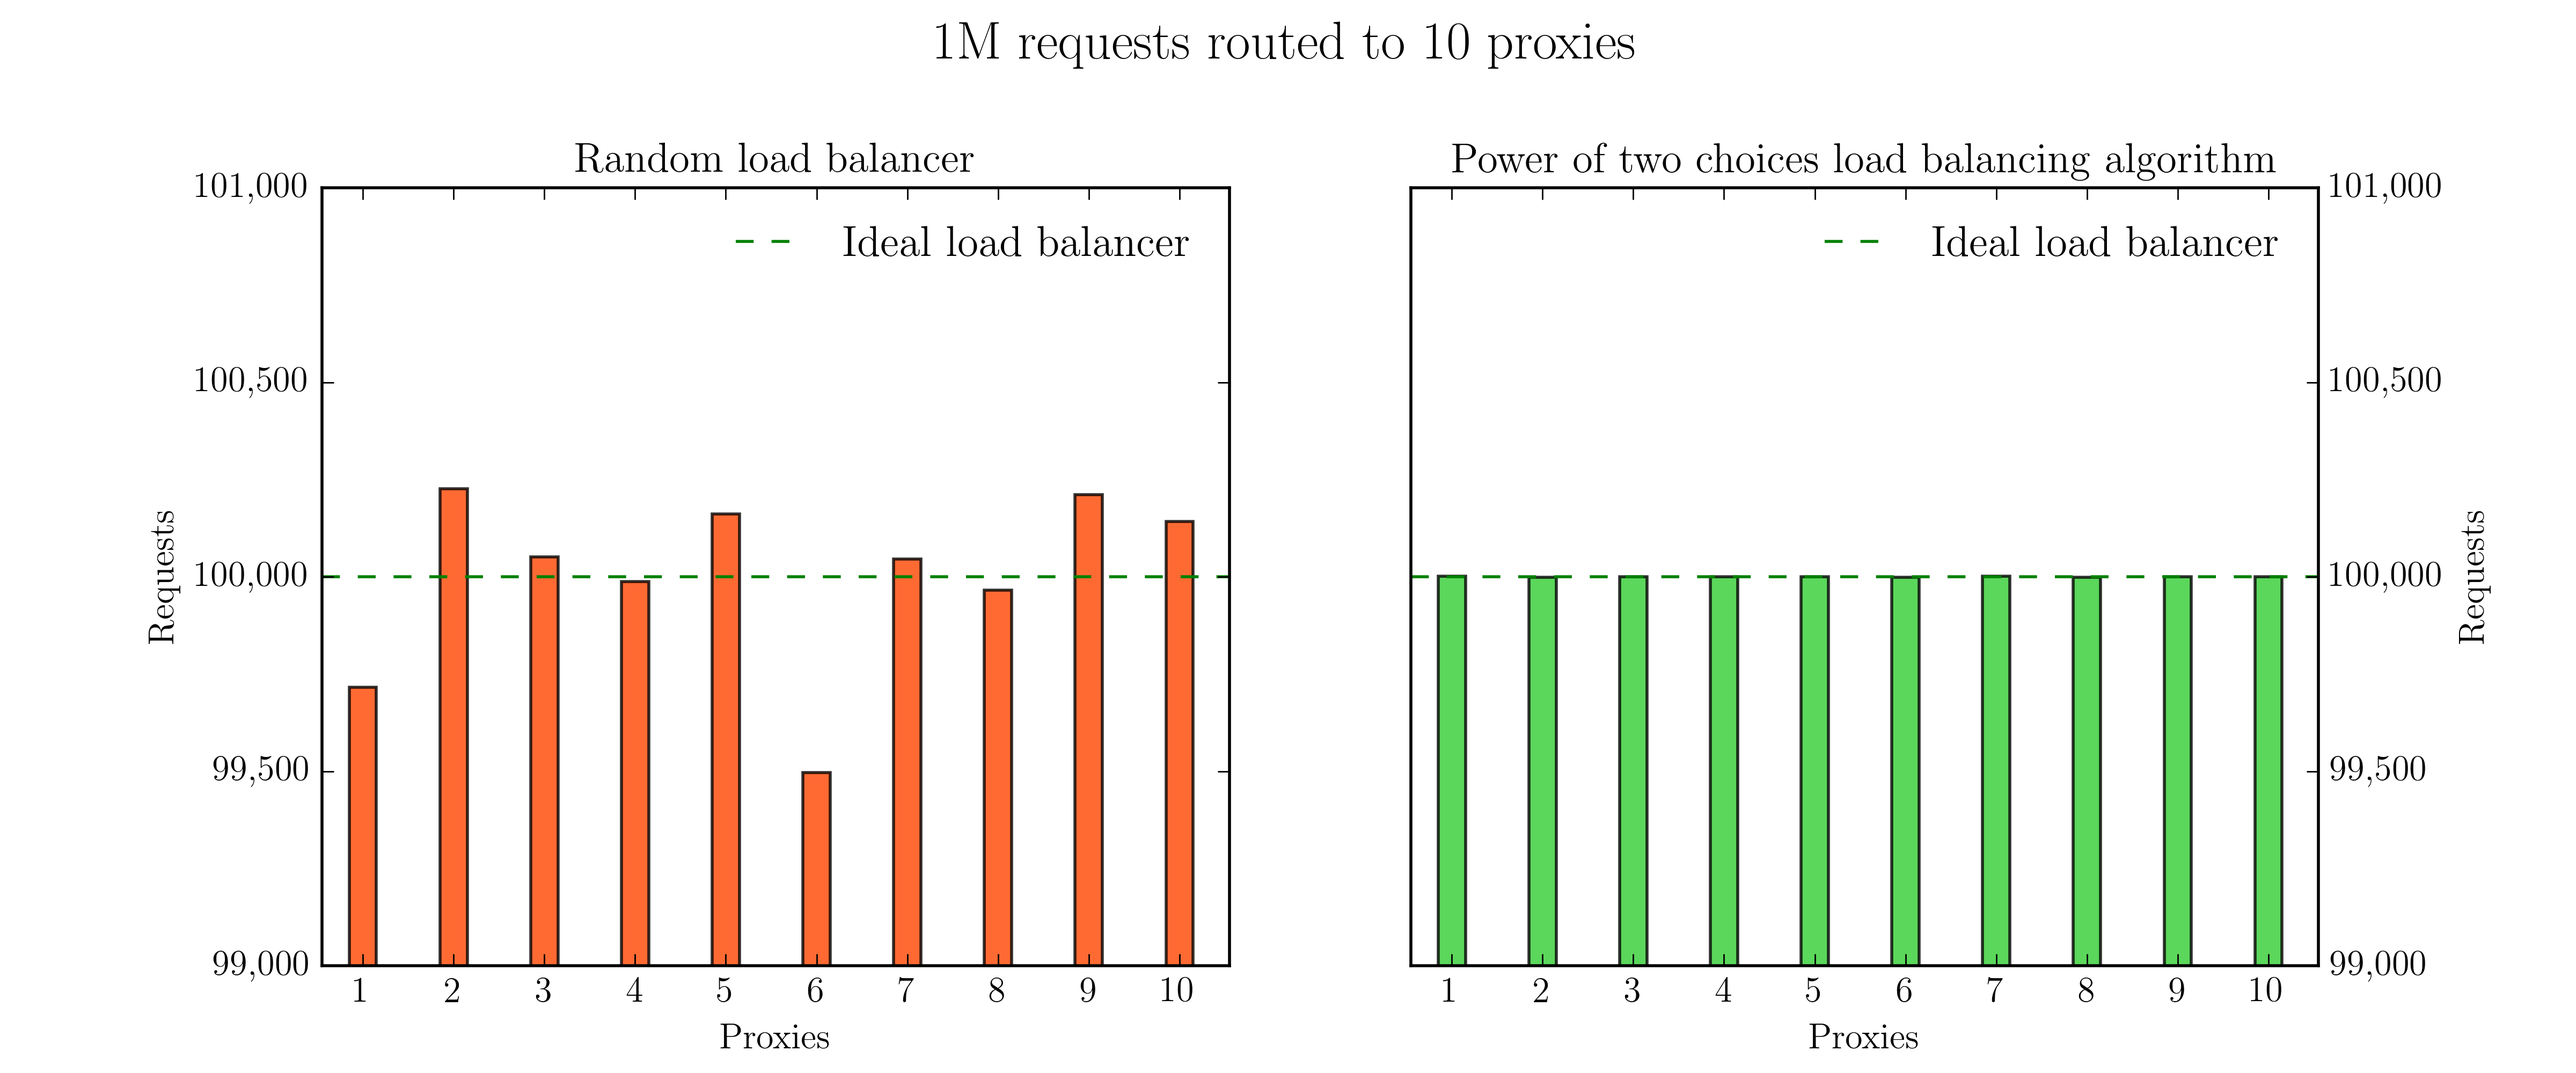
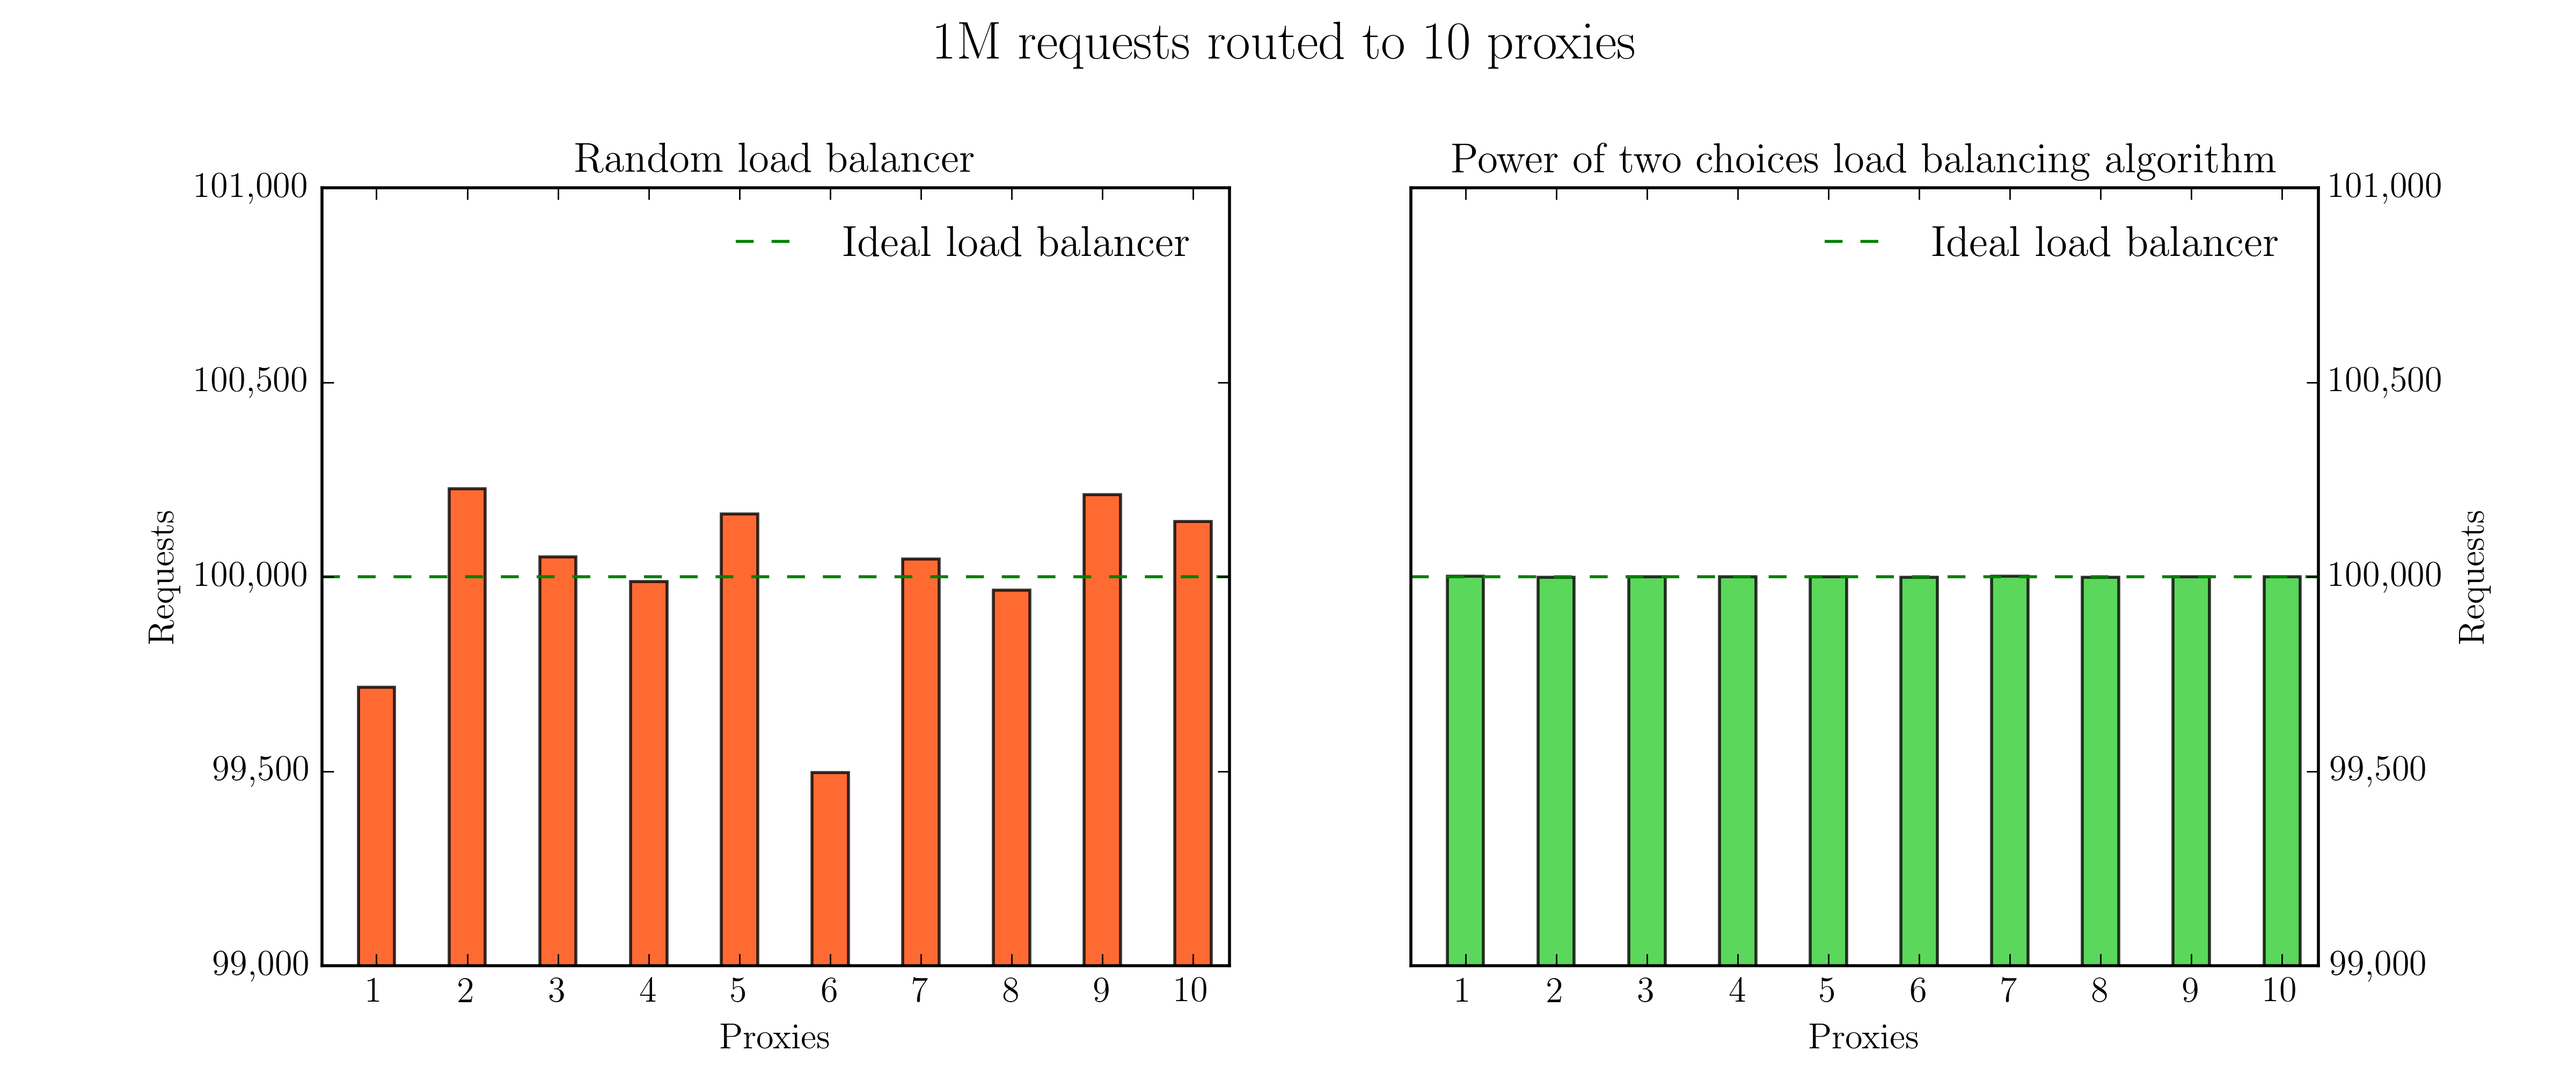
thicker bars

Changed region(s): [[0.5312, 0.527, 0.9062, 0.93], [0.125, 0.434, 0.4688, 0.93]]

diff --git a/docs/plot.py b/docs/plot.py
@@ -13,7 +13,7 @@ import matplotlib.pyplot as plt
 import matplotlib.ticker as ticker
 import os
 
-bar_width = 0.3
+bar_width = 0.4
 random_balancer = (99716, 100226, 100051, 99987, 100161, 99496, 100045, 99965, 100211, 100142)
 p2c_balancer = (100001, 99999, 100000, 100000, 100000, 99999, 100002, 99999, 100000, 100000)
 
